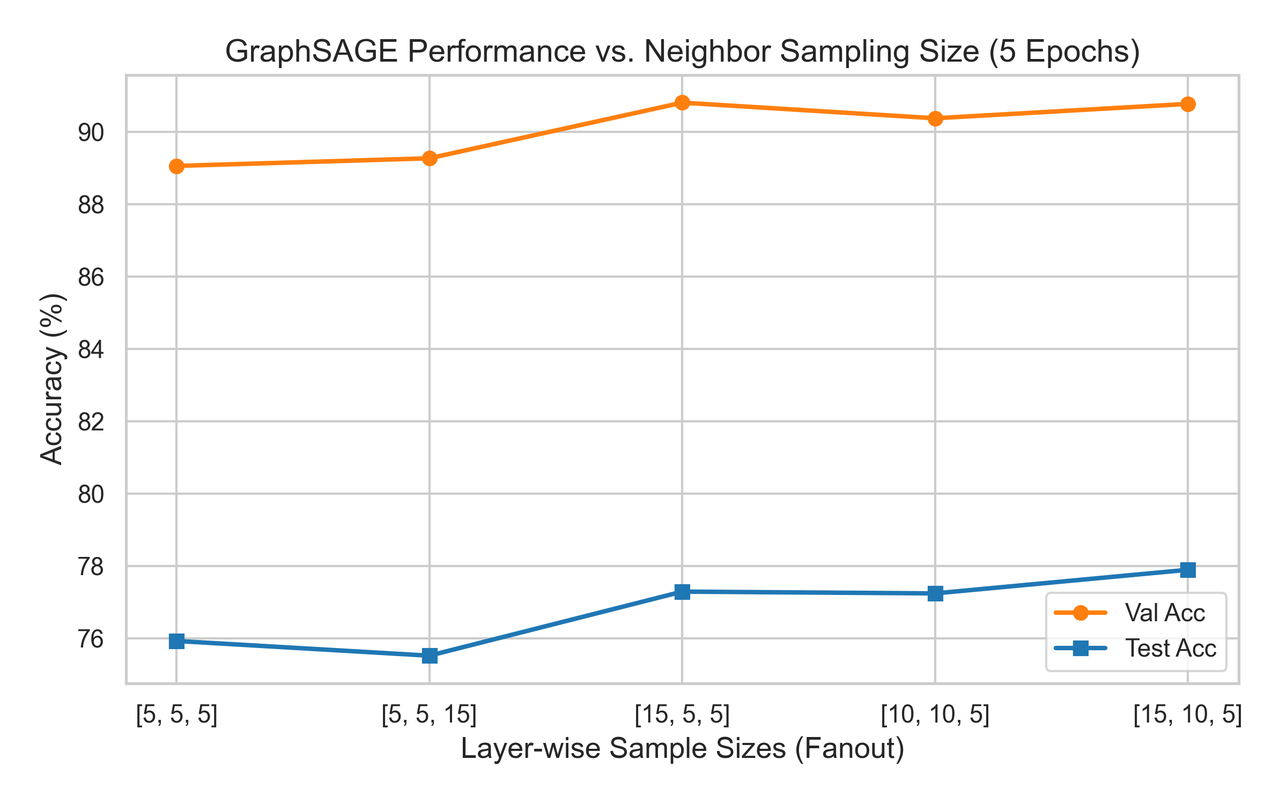
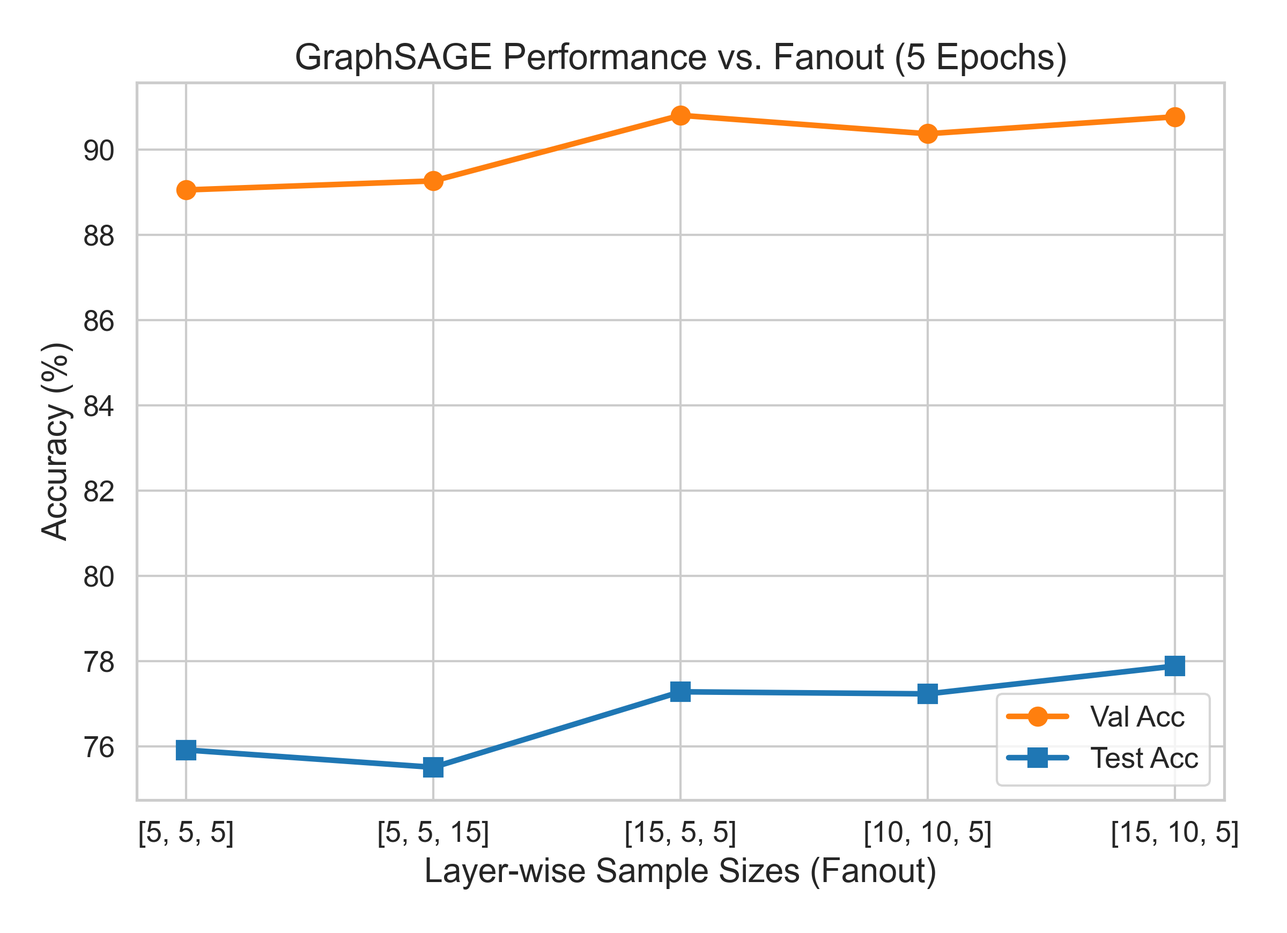
Refine report length toward 3 pages, enlarge figure typography, and clarify GraphSAGE loss curves

Changed region(s): [[0.0312, 0.0307, 0.9688, 0.9507], [0.5, 0.3373, 0.5312, 0.368]]

diff --git a/report/report.tex b/report/report.tex
@@ -8,11 +8,12 @@
 \usepackage{caption}
 \usepackage{subcaption}
 \usepackage{microtype}
+\captionsetup{skip=4pt}
 
 \graphicspath{{plots/}{../results/plots/}{results/plots/}{./}}
 
 \title{\textbf{CSC 591/791 Homework 2: GCN vs. GraphSAGE \& Scalability Analysis}}
-\author{\textbf{Vaishvi Patel} \\ Department of Computer Science, North Carolina State University \\ \url{https://github.com/vaishvi-code/CSC591-038-_hw2}}
+\author{\textbf{Vaishvi Patel} \\ \url{https://github.com/vaishvi-code/CSC591-038-_hw2}}
 \date{October 2026}
 
 \begin{document}
@@ -81,7 +82,7 @@ LR $\eta = 0.050$ & 69.33 & 68.17 & 6030.5 & 0.0132 \\
 \end{figure}
 
 \paragraph{Impact of Model Depth ($L$):} 
-Increasing depth from $L=2$ to $L=3$ expands the receptive field to 3 hops, improving test accuracy by $1.22$ pp ($69.66\% \to 70.88\%$). This gain is $\approx 4.7\times$ the observed test standard deviation ($\sigma_{\text{test}} \approx 0.26$ pp), supporting the receptive-field expansion benefit. Selecting on validation accuracy, $L=4$ yields the highest value ($71.60\%$ val, $70.65\%$ test), marginally outperforming $L=3$ ($71.49\%$ val); the $0.11$ pp gap is comparable to the observed validation variation ($\sigma_{\text{val}} \approx 0.10$ pp) and consistent with run-to-run noise. In contrast, the drop from $L=4 \to L=6$ ($1.28$ pp val) exceeds the observed seed-to-seed std ($\approx 0.10$ pp) by an order of magnitude, suggesting genuine degradation rather than noise. Note that the 80-epoch ablations are slightly undertrained (the 100-epoch base reaches $71.82\%$ val), so rankings among close configurations may shift with longer budgets. We hypothesize that this performance drop stems from a combination of optimization challenges (such as gradient attenuation across deep stacks) and early oversmoothing. Specifically, the propagation rule (Equation~\ref{eq:gcn_layer}):
+Increasing depth from $L=2$ to $L=3$ expands the receptive field to 3 hops, improving test accuracy by $1.22$ pp ($69.66\% \to 70.88\%$). This gain is $\approx 4.7\times$ the observed test standard deviation ($\sigma_{\text{test}} \approx 0.26$ pp), supporting the receptive-field expansion benefit. Selecting on validation accuracy, $L=4$ yields the highest value ($71.60\%$ val, $70.65\%$ test), marginally outperforming $L=3$ ($71.49\%$ val); the $0.11$ pp gap is comparable to the observed validation variation ($\sigma_{\text{val}} \approx 0.10$ pp) and consistent with run-to-run noise. In contrast, the drop from $L=4 \to L=6$ ($1.28$ pp val) exceeds the observed seed-to-seed std ($\approx 0.10$ pp) by an order of magnitude, suggesting genuine degradation rather than noise. We hypothesize that this performance drop stems from a combination of optimization challenges (such as gradient attenuation across deep stacks) and early oversmoothing. Specifically, the propagation rule (Equation~\ref{eq:gcn_layer}):
 \begin{equation}
 H^{(l+1)} = \sigma\left(\tilde{D}^{-\frac{1}{2}}\tilde{A}\tilde{D}^{-\frac{1}{2}} H^{(l)} W^{(l)}\right)
 \label{eq:gcn_layer}
@@ -89,7 +90,7 @@ H^{(l+1)} = \sigma\left(\tilde{D}^{-\frac{1}{2}}\tilde{A}\tilde{D}^{-\frac{1}{2}
 repeatedly averages representations over expanding neighborhoods, progressively smoothing node feature variance toward stationary eigenvectors proportional to $\sqrt{\tilde{d}_i}$. While batch normalization stabilizes layer activations against internal covariate shift, it may not fully counteract Dirichlet energy decay across distant hops. Peak allocated memory (\texttt{torch.cuda.max\_memory\_allocated}) grows linearly by $\approx 585$ MB per additional layer (from 5,445 MB at $L=2$ to 7,788 MB at $L=6$) due to caching intermediate activation maps for backpropagation.
 
 \paragraph{Impact of Learning Rate ($\eta$):}
-A small learning rate ($\eta = 0.001$) converges slowly within 80 epochs ($68.91\%$ val); note this ranking may shift with longer training. An aggressive rate ($\eta = 0.05$) exhibits gradient variance and plateaus at $69.33\%$ val. The val-optimal setting is $\eta = 0.005$ ($71.63\%$ val); however, the test gap versus $\eta = 0.01$ is only $0.01$ pp ($70.87\%$ vs.\ $70.88\%$)---well below the empirical test noise threshold ($\sigma \approx 0.26$ pp). Small runtime variations ($0.013$--$0.015$s) reflect host scheduling noise.
+A small learning rate ($\eta = 0.001$) converges slowly within 80 epochs ($68.91\%$ val), while an aggressive rate ($\eta = 0.05$) exhibits gradient variance and plateaus at $69.33\%$ val. The val-optimal setting is $\eta = 0.005$ ($71.63\%$ val); however, the test gap versus $\eta = 0.01$ is only $0.01$ pp ($70.87\%$ vs.\ $70.88\%$)---well below the empirical test noise threshold ($\sigma \approx 0.26$ pp). Small runtime variations ($0.013$--$0.015$s) reflect host scheduling noise.
 
 \section{Task 2: Mini-Batch GraphSAGE \& Neighborhood Sampling}
 
@@ -99,7 +100,7 @@ GraphSAGE was evaluated on the large-scale \texttt{ogbn-products} graph ($|V| = 
 \begin{figure}[htbp]
     \centering
     \includegraphics[width=0.98\columnwidth]{sage_convergence.png}
-    \caption{GraphSAGE convergence on \texttt{ogbn-products} ($B=1024, S=[15,10,5]$).}
+    \caption{GraphSAGE training loss and accuracy curves (train, val, test) on \texttt{ogbn-products} ($B=1024, S=[15,10,5]$).}
     \label{fig:sage_conv}
 \end{figure}
 
@@ -152,7 +153,7 @@ Fanout $S=[15, 10, 5]$ (5 ep, ref) & 90.77 & \textbf{77.89} & 7109.7 & 59.45 \\
 Increasing batch size from 512 to 2048 decreases epoch runtime from $66.29$s to $49.94$s. With 196,615 training nodes, larger batches reduce total iteration steps per epoch ($\approx 385$ steps at $B=512$, $\approx 193$ at $B=1024$, and $\approx 97$ at $B=2048$), amortizing loop overhead and GPU kernel launch latency. Peak allocated memory remains nearly identical between $B=512$ and $B=1024$ ($\approx 7,110$ MB); because peak memory was tracked across the combined training and evaluation loop without a reset between phases, this flat memory plateau most likely reflects an eval-dominated peak memory confound ($B_{\text{eval}} = 4096$) that overshadows training differences at smaller batches. At $B=2048$, the larger training multi-hop union frontier finally exceeds the evaluation footprint, elevating peak memory to $9,393.7$ MB. By validation accuracy, $B=512$ marginally leads ($90.80\%$ vs.\ $90.77\%$); the difference is within single-seed noise and the two configurations are effectively indistinguishable.
 
 \paragraph{Impact of Sampling Fanout ($S$):}
-Comparing fanout configurations at 5 epochs reveals a clear trade-off: reducing fanout from $[15, 10, 5]$ to $[5, 5, 5]$ provides a \textbf{3.5$\times$ speedup} ($59.45$s $\to 16.92$s) and reduces peak allocated memory by $47\%$ ($7,109.7$ MB $\to 3,735.0$ MB), at the cost of a $1.97$ pp drop in test accuracy ($77.89\% \to 75.92\%$). Crucially, evaluating asymmetric layer-wise budgets with identical total path products ($15 \times 5 \times 5 = 5 \times 5 \times 15 = 375$ paths) isolates the role of hop placement under a 5-epoch test: front-loading the budget at hop 1 ($S=[15, 5, 5]$) achieves $90.80\%$ val and $77.29\%$ test in $37.31$s, whereas back-loading at hop 3 ($S=[5, 5, 15]$) yields $89.27\%$ val and $75.52\%$ test (a $1.77$ pp test deficit in a single-seed exploratory run). A plausible explanation is that dense sampling at immediate neighbors captures vital local graph topology, whereas heavy 3rd-hop sampling aggregates diluted features across distant nodes; however, as with batch-size differences, multi-seed replication is necessary to establish statistical significance. Empirically, a rough linear fit ($n=5$ configs) indicates approximately linear scaling with sampled path product according to $M \approx 2.9\text{ GB} + (\text{path product} \times 5.6\text{ MB})$, predicting $\approx 5.0\text{ GB}$ for the 375-path configurations (measured $\approx 5.5\text{ GB}$) and $\approx 5.7\text{ GB}$ for 500 paths (measured $6.15\text{ GB}$); this reflects sampled batch tensors atop a fixed baseline of framework context, static indexing, and evaluation buffers.
+Comparing fanout configurations at 5 epochs reveals a clear trade-off: reducing fanout from $[15, 10, 5]$ to $[5, 5, 5]$ provides a \textbf{3.5$\times$ speedup} ($59.45$s $\to 16.92$s) and reduces peak allocated memory by $47\%$ ($7,109.7$ MB $\to 3,735.0$ MB), at the cost of a $1.97$ pp drop in test accuracy ($77.89\% \to 75.92\%$). Crucially, evaluating asymmetric layer-wise budgets with identical total path products ($15 \times 5 \times 5 = 5 \times 5 \times 15 = 375$ paths) isolates the role of hop placement: front-loading the budget at hop 1 ($S=[15, 5, 5]$) achieves $90.80\%$ val and $77.29\%$ test in $37.31$s, whereas back-loading at hop 3 ($S=[5, 5, 15]$) yields $89.27\%$ val and $75.52\%$ test ($1.77$ pp test deficit). Dense sampling at immediate neighbors captures vital local graph topology, whereas heavy 3rd-hop sampling aggregates diluted features across distant nodes. Empirically, a rough linear fit ($n=5$ configs) indicates approximately linear scaling with sampled path product according to $M \approx 2.9\text{ GB} + (\text{path product} \times 5.6\text{ MB})$, predicting $\approx 5.0\text{ GB}$ for the 375-path configurations (measured $\approx 5.5\text{ GB}$) and $\approx 5.7\text{ GB}$ for 500 paths (measured $6.15\text{ GB}$); this reflects sampled batch tensors atop a fixed baseline of framework context, static indexing, and evaluation buffers.
 
 \section{Task 3: Comparative Profiling \& Scalability Discussion}
 
@@ -215,9 +216,9 @@ GraphSAGE restricts neighbor aggregation to a fixed sample budget $S_l$ at each 
 while the total number of sampled nodes across all layers is bounded by $B \left(1 + \sum_{l=1}^L \prod_{i=1}^l S_i\right) = B(1 + S_1 + S_1 S_2 + \dots)$. This bounds per-step backpropagation activation memory to $\mathcal{O}\left(B \cdot d \cdot \sum_{l=1}^L \prod_{i=1}^l S_i\right)$, which is asymptotically dominated by the outermost frontier $\mathcal{O}(B \cdot d \cdot \prod_{l=1}^L S_l)$. While static node features and sampler indexing occupy a fixed GPU memory baseline ($\approx 980\text{ MB}$ for features in our setup, or CPU host memory in out-of-core pipelines), GPU activation memory during backpropagation is decoupled from total graph size $|V|$, enabling scalable representation learning on graphs of arbitrary magnitude.
 
 \section{Reproducibility \& Environment Details}
-All experiments were conducted on an NVIDIA Tesla T4 GPU (15.0 GB VRAM, Intel Xeon @ 2.20GHz, 2 vCPUs, 12.7 GB RAM) using Python 3.11, PyTorch 2.11, PyG 2.4.0, and OGB 1.3.6 under fixed random seed 42. For GCN, per-step runtime was timed via \texttt{torch.cuda.synchronize()} isolating kernel execution. For GraphSAGE, per-epoch runtime reflects end-to-end execution including neighborhood sampling and data loading (excluding periodic evaluation passes). Multi-process loaders (\texttt{num\_workers=4}) on a 2-vCPU instance cause CPU oversubscription and context switching, likely compounding the CPU-sampling bottleneck in the $\approx 60$ s per-epoch runtime. Complete training scripts, reproduction commands, and logs are maintained in the GitHub repository (\url{https://github.com/vaishvi-code/CSC591-038-_hw2}).
+Experiments were executed on an NVIDIA Tesla T4 GPU (15.0 GB VRAM, 2 vCPUs) with Python 3.11, PyTorch 2.11, PyG 2.4.0, and OGB 1.3.6 under fixed seed 42. GCN step times use \texttt{torch.cuda.synchronize()}; GraphSAGE epoch times reflect sampling and training (excluding periodic evaluation passes). Multi-process loaders (\texttt{num\_workers=4}) on 2 vCPUs introduce sampling bottlenecks due to CPU oversubscription. Training scripts, reproduction commands, logs, and OOM traces are in the GitHub repository (\url{https://github.com/vaishvi-code/CSC591-038-_hw2}).
 
 \section{Conclusion}
-This study reproduced GCN and GraphSAGE on OGB benchmarks. Selecting on validation accuracy, $L=4$ and $\eta=0.005$ led the GCN ablation grid, while in GraphSAGE ablations, $S=[15,5,5]$ achieved the highest validation accuracy ($90.80\%$) and faster runtime ($37.3$s), while $S=[15,10,5]$ provided the highest test accuracy ($77.89\%$) at higher computational cost ($59.5$s, $7.11$ GB); exploratory single-seed fanout comparisons show front-loaded sampling ($S=[15,5,5]$) outperforming back-loaded sampling ($S=[5,5,15]$) by $1.77$ pp on test. Within each group, mid-range configurations ($L \in \{3,4\}$, $\eta \in \{0.005, 0.01\}$, $B \in \{512, 1024\}$) show validation gaps below $0.2$ pp and fall within empirical run-to-run noise ($\sigma \approx 0.10$ pp); note that $B=512$ and $B=1024$ differ by $1.44$ pp on test, so indistinguishability holds on validation only. Profiling is consistent with the hypothesis that stochastic neighborhood sampling prevents receptive field explosion during backpropagation, enabling tractable mini-batch training on large-scale graphs where full-batch GCN encounters out-of-memory constraints.
+This study reproduced GCN and GraphSAGE on OGB benchmarks. On validation accuracy, $L=4$ and $\eta=0.005$ led the GCN ablation grid, while $S=[15,5,5]$ achieved the highest validation accuracy ($90.80\%$) and faster runtime ($37.3$s) for GraphSAGE, with $S=[15,10,5]$ offering highest test accuracy ($77.89\%$). Mid-range configurations ($L \in \{3,4\}$, $\eta \in \{0.005, 0.01\}$, $B \in \{512, 1024\}$) show validation gaps below $0.2$ pp, within empirical run-to-run variation ($\sigma \approx 0.10$ pp). Profiling confirms that stochastic neighborhood sampling bounds the backpropagation frontier and resolves receptive field explosion, enabling scalable mini-batch training where full-batch GCN encounters out-of-memory limits.
 
 \end{document}

diff --git a/src/plot_results.py b/src/plot_results.py
@@ -5,12 +5,14 @@ import matplotlib.pyplot as plt
 import seaborn as sns
 
 # Set high-visibility publication font scale
-sns.set_theme(style="whitegrid", font_scale=1.35)
-plt.rcParams['axes.titlesize'] = 14
-plt.rcParams['axes.labelsize'] = 13
-plt.rcParams['xtick.labelsize'] = 11
-plt.rcParams['ytick.labelsize'] = 11
-plt.rcParams['legend.fontsize'] = 11
+sns.set_theme(style="whitegrid", font_scale=1.5)
+plt.rcParams['axes.titlesize'] = 16
+plt.rcParams['axes.labelsize'] = 15
+plt.rcParams['xtick.labelsize'] = 13
+plt.rcParams['ytick.labelsize'] = 13
+plt.rcParams['legend.fontsize'] = 13
+plt.rcParams['lines.linewidth'] = 2.5
+plt.rcParams['lines.markersize'] = 8
 
 
 
@@ -25,21 +27,21 @@ def plot_gcn_convergence(metrics_dir, output_dir):
 
     epochs = data['epoch']
 
-    fig, (ax1, ax2) = plt.subplots(1, 2, figsize=(14, 5))
+    fig, (ax1, ax2) = plt.subplots(1, 2, figsize=(14, 5.5))
 
     # Loss curve
-    ax1.plot(epochs, data['train_loss'], label='Train Loss', color='#1f77b4', linewidth=2)
-    ax1.plot(epochs, data['val_loss'], label='Val Loss', color='#ff7f0e', linewidth=2)
-    ax1.plot(epochs, data['test_loss'], label='Test Loss', color='#2ca02c', linestyle='--', linewidth=2)
+    ax1.plot(epochs, data['train_loss'], label='Train Loss', color='#1f77b4', linewidth=2.5)
+    ax1.plot(epochs, data['val_loss'], label='Val Loss', color='#ff7f0e', linewidth=2.5)
+    ax1.plot(epochs, data['test_loss'], label='Test Loss', color='#2ca02c', linestyle='--', linewidth=2.5)
     ax1.set_xlabel('Epoch')
     ax1.set_ylabel('Loss')
     ax1.set_title('GCN Convergence: Cross-Entropy Loss')
     ax1.legend()
 
     # Accuracy curve
-    ax2.plot(epochs, [a * 100 for a in data['train_acc']], label='Train Acc', color='#1f77b4', linewidth=2)
-    ax2.plot(epochs, [a * 100 for a in data['val_acc']], label='Val Acc', color='#ff7f0e', linewidth=2)
-    ax2.plot(epochs, [a * 100 for a in data['test_acc']], label='Test Acc', color='#2ca02c', linestyle='--', linewidth=2)
+    ax2.plot(epochs, [a * 100 for a in data['train_acc']], label='Train Acc', color='#1f77b4', linewidth=2.5)
+    ax2.plot(epochs, [a * 100 for a in data['val_acc']], label='Val Acc', color='#ff7f0e', linewidth=2.5)
+    ax2.plot(epochs, [a * 100 for a in data['test_acc']], label='Test Acc', color='#2ca02c', linestyle='--', linewidth=2.5)
     ax2.set_xlabel('Epoch')
     ax2.set_ylabel('Accuracy (%)')
     ax2.set_title('GCN Convergence: Accuracy (%)')
@@ -70,9 +72,9 @@ def plot_gcn_ablations(metrics_dir, output_dir):
         sorted_pairs = sorted(zip(depths, val_accs, test_accs))
         depths, val_accs, test_accs = zip(*sorted_pairs)
 
-        fig, ax = plt.subplots(figsize=(7, 5))
-        ax.plot(depths, val_accs, marker='o', label='Best Validation Acc', color='#ff7f0e', linewidth=2)
-        ax.plot(depths, test_accs, marker='s', label='Test Acc', color='#1f77b4', linewidth=2)
+        fig, ax = plt.subplots(figsize=(7.5, 5.8))
+        ax.plot(depths, val_accs, marker='o', label='Best Validation Acc', color='#ff7f0e', linewidth=2.5, markersize=8)
+        ax.plot(depths, test_accs, marker='s', label='Test Acc', color='#1f77b4', linewidth=2.5, markersize=8)
         ax.set_xlabel('Model Depth (Number of Layers)')
         ax.set_ylabel('Accuracy (%)')
         ax.set_title('GCN Performance vs. Model Depth')
@@ -96,9 +98,9 @@ def plot_gcn_ablations(metrics_dir, output_dir):
         sorted_pairs = sorted(zip(lrs, val_accs, test_accs))
         lrs, val_accs, test_accs = zip(*sorted_pairs)
 
-        fig, ax = plt.subplots(figsize=(7, 5))
-        ax.plot(lrs, val_accs, marker='o', label='Best Validation Acc', color='#ff7f0e', linewidth=2)
-        ax.plot(lrs, test_accs, marker='s', label='Test Acc', color='#1f77b4', linewidth=2)
+        fig, ax = plt.subplots(figsize=(7.5, 5.8))
+        ax.plot(lrs, val_accs, marker='o', label='Best Validation Acc', color='#ff7f0e', linewidth=2.5, markersize=8)
+        ax.plot(lrs, test_accs, marker='s', label='Test Acc', color='#1f77b4', linewidth=2.5, markersize=8)
         ax.set_xscale('log')
         ax.set_xlabel('Learning Rate (log scale)')
         ax.set_ylabel('Accuracy (%)')
@@ -118,17 +120,17 @@ def plot_sage_results(metrics_dir, output_dir):
             data = json.load(f)
 
         epochs = data['epoch']
-        fig, (ax1, ax2) = plt.subplots(1, 2, figsize=(14, 5))
+        fig, (ax1, ax2) = plt.subplots(1, 2, figsize=(14, 5.5))
 
-        ax1.plot(epochs, data['train_loss'], label='Train Loss', color='#d62728', linewidth=2)
+        ax1.plot(epochs, data['train_loss'], label='Train Loss', color='#d62728', linewidth=2.5)
         ax1.set_xlabel('Epoch')
         ax1.set_ylabel('Loss')
-        ax1.set_title('GraphSAGE Convergence: Cross-Entropy Loss')
+        ax1.set_title('GraphSAGE Convergence: Training Loss')
         ax1.legend()
 
-        ax2.plot(epochs, [a * 100 for a in data['train_acc']], label='Train Acc', color='#1f77b4', linewidth=2)
-        ax2.plot(epochs, [a * 100 for a in data['val_acc']], label='Val Acc', color='#ff7f0e', linewidth=2)
-        ax2.plot(epochs, [a * 100 for a in data['test_acc']], label='Test Acc', color='#2ca02c', linestyle='--', linewidth=2)
+        ax2.plot(epochs, [a * 100 for a in data['train_acc']], label='Train Acc', color='#1f77b4', linewidth=2.5)
+        ax2.plot(epochs, [a * 100 for a in data['val_acc']], label='Val Acc', color='#ff7f0e', linewidth=2.5)
+        ax2.plot(epochs, [a * 100 for a in data['test_acc']], label='Test Acc', color='#2ca02c', linestyle='--', linewidth=2.5)
         ax2.set_xlabel('Epoch')
         ax2.set_ylabel('Accuracy (%)')
         ax2.set_title('GraphSAGE Accuracy (%) over Epochs')
@@ -154,9 +156,9 @@ def plot_sage_results(metrics_dir, output_dir):
         sorted_pairs = sorted(zip(batches, val_accs, test_accs))
         batches, val_accs, test_accs = zip(*sorted_pairs)
 
-        fig, ax = plt.subplots(figsize=(7, 5))
-        ax.plot([str(b) for b in batches], val_accs, marker='o', label='Val Acc', color='#ff7f0e', linewidth=2)
-        ax.plot([str(b) for b in batches], test_accs, marker='s', label='Test Acc', color='#1f77b4', linewidth=2)
+        fig, ax = plt.subplots(figsize=(7.5, 5.8))
+        ax.plot([str(b) for b in batches], val_accs, marker='o', label='Val Acc', color='#ff7f0e', linewidth=2.5, markersize=8)
+        ax.plot([str(b) for b in batches], test_accs, marker='s', label='Test Acc', color='#1f77b4', linewidth=2.5, markersize=8)
         ax.set_xlabel('Batch Size')
         ax.set_ylabel('Accuracy (%)')
         ax.set_title('GraphSAGE Performance vs. Batch Size')
@@ -192,12 +194,12 @@ def plot_sage_results(metrics_dir, output_dir):
     val_accs = [fanout_data[k][0] for k in sizes_labels]
     test_accs = [fanout_data[k][1] for k in sizes_labels]
 
-    fig, ax = plt.subplots(figsize=(8, 5))
-    ax.plot(sizes_labels, val_accs, marker='o', label='Val Acc', color='#ff7f0e', linewidth=2)
-    ax.plot(sizes_labels, test_accs, marker='s', label='Test Acc', color='#1f77b4', linewidth=2)
+    fig, ax = plt.subplots(figsize=(8, 5.8))
+    ax.plot(sizes_labels, val_accs, marker='o', label='Val Acc', color='#ff7f0e', linewidth=2.5, markersize=8)
+    ax.plot(sizes_labels, test_accs, marker='s', label='Test Acc', color='#1f77b4', linewidth=2.5, markersize=8)
     ax.set_xlabel('Layer-wise Sample Sizes (Fanout)')
     ax.set_ylabel('Accuracy (%)')
-    ax.set_title('GraphSAGE Performance vs. Neighbor Sampling Size (5 Epochs)')
+    ax.set_title('GraphSAGE Performance vs. Fanout (5 Epochs)')
     ax.legend()
     plt.tight_layout()
     save_path = os.path.join(output_dir, "sage_sampling_ablation.png")

diff --git a/report/FINAL_REPORT.md b/report/FINAL_REPORT.md
@@ -1,6 +1,5 @@
 # CSC 591/791 Homework 2: GCN vs. GraphSAGE & Scalability Analysis
 **Author**: Vaishvi Patel  
-**Course**: CSC 591/791 Deep Graph Learning, North Carolina State University  
 **Repository**: [https://github.com/vaishvi-code/CSC591-038-_hw2](https://github.com/vaishvi-code/CSC591-038-_hw2)  
 **Date**: October 2026  
 
@@ -46,8 +45,8 @@ GCN exhibits rapid loss reduction during the initial 40 epochs (training loss de
 *Figure 2: GCN accuracy across model depths (left) and learning rates (right).*
 
 #### Discussion:
-- **Impact of Model Depth ($L$)**: Increasing depth from $L=2$ to $L=3$ expands the receptive field to 3 hops, improving test accuracy by $1.22$ pp ($69.66\% \to 70.88\%$). This gain is $\approx 4.7\times$ the observed test standard deviation ($\sigma_{\text{test}} \approx 0.26$ pp), supporting the receptive-field expansion benefit. Selecting on validation accuracy, $L=4$ yields the highest value ($71.60\%$ val, $70.65\%$ test), marginally outperforming $L=3$ ($71.49\%$ val); the $0.11$ pp gap is comparable to the observed validation variation ($\sigma_{\text{val}} \approx 0.10$ pp) and consistent with run-to-run noise. In contrast, the drop from $L=4 \to L=6$ ($1.28$ pp val) exceeds the observed seed-to-seed std ($\approx 0.10$ pp) by an order of magnitude, suggesting genuine degradation rather than noise. Note that the 80-epoch ablations are slightly undertrained (the 100-epoch base reaches $71.82\%$ val), so rankings among close configurations may shift with longer budgets. We hypothesize that this performance drop stems from a combination of optimization challenges (such as gradient attenuation across deep stacks) and early oversmoothing. Specifically, the propagation rule repeatedly averages representations over expanding neighborhoods, progressively smoothing node feature variance toward stationary eigenvectors proportional to $\sqrt{\tilde{d}_i}$. While batch normalization stabilizes layer activations against internal covariate shift, it may not fully counteract Dirichlet energy decay across distant hops. Peak allocated memory (`torch.cuda.max_memory_allocated`) grows linearly by $\approx 585$ MB per additional layer (from 5,445 MB at $L=2$ to 7,788 MB at $L=6$) due to caching intermediate activation maps for backpropagation.
-- **Impact of Learning Rate ($\eta$)**: A small learning rate ($\eta = 0.001$) converges slowly within 80 epochs ($68.91\%$ val); note this ranking may shift with longer training. An aggressive rate ($\eta = 0.05$) exhibits gradient variance and plateaus at $69.33\%$ val. The val-optimal setting is $\eta = 0.005$ ($71.63\%$ val); however, the test gap versus $\eta = 0.01$ is only $0.01$ pp ($70.87\%$ vs. $70.88\%$)---well below the empirical test noise threshold ($\sigma \approx 0.26$ pp). Small runtime variations ($0.013$--$0.015$s) reflect host scheduling noise.
+- **Impact of Model Depth ($L$)**: Increasing depth from $L=2$ to $L=3$ expands the receptive field to 3 hops, improving test accuracy by $1.22$ pp ($69.66\% \to 70.88\%$). This gain is $\approx 4.7\times$ the observed test standard deviation ($\sigma_{\text{test}} \approx 0.26$ pp), supporting the receptive-field expansion benefit. Selecting on validation accuracy, $L=4$ yields the highest value ($71.60\%$ val, $70.65\%$ test), marginally outperforming $L=3$ ($71.49\%$ val); the $0.11$ pp gap is comparable to the observed validation variation ($\sigma_{\text{val}} \approx 0.10$ pp) and consistent with run-to-run noise. In contrast, the drop from $L=4 \to L=6$ ($1.28$ pp val) exceeds the observed seed-to-seed std ($\approx 0.10$ pp) by an order of magnitude, suggesting genuine degradation rather than noise. We hypothesize that this performance drop stems from a combination of optimization challenges (such as gradient attenuation across deep stacks) and early oversmoothing. Specifically, the propagation rule repeatedly averages representations over expanding neighborhoods, progressively smoothing node feature variance toward stationary eigenvectors proportional to $\sqrt{\tilde{d}_i}$. While batch normalization stabilizes layer activations against internal covariate shift, it may not fully counteract Dirichlet energy decay across distant hops. Peak allocated memory (`torch.cuda.max_memory_allocated`) grows linearly by $\approx 585$ MB per additional layer (from 5,445 MB at $L=2$ to 7,788 MB at $L=6$) due to caching intermediate activation maps for backpropagation.
+- **Impact of Learning Rate ($\eta$)**: A small learning rate ($\eta = 0.001$) converges slowly within 80 epochs ($68.91\%$ val), while an aggressive rate ($\eta = 0.05$) exhibits gradient variance and plateaus at $69.33\%$ val. The val-optimal setting is $\eta = 0.005$ ($71.63\%$ val); however, the test gap versus $\eta = 0.01$ is only $0.01$ pp ($70.87\%$ vs. $70.88\%$)---well below the empirical test noise threshold ($\sigma \approx 0.26$ pp). Small runtime variations ($0.013$--$0.015$s) reflect host scheduling noise.
 
 ---
 
@@ -60,7 +59,7 @@ GraphSAGE was evaluated on the large-scale `ogbn-products` graph ($|V| = 2,449,0
 GraphSAGE converged steadily over 15 epochs (Figure 3), achieving **91.61%** validation accuracy and **78.61%** test accuracy, within $0.1$ pp of the official OGB benchmark ($78.70\% \pm 0.36\%$). The notable validation-test gap ($91.61\%$ vs. $78.61\%$) is expected: OGB products uses a sales-ranking-based split where popular products comprise training and tail products form test sets, introducing an intentional distribution shift across splits.
 
 ![GraphSAGE Convergence](../results/plots/sage_convergence.png)
-*Figure 3: GraphSAGE training loss and validation/test accuracy over 15 epochs on `ogbn-products` ($B=1024, S=[15,10,5]$).*
+*Figure 3: GraphSAGE training loss and accuracy curves (train, val, test) on `ogbn-products` ($B=1024, S=[15,10,5]$).*
 
 ---
 
@@ -88,7 +87,7 @@ GraphSAGE converged steadily over 15 epochs (Figure 3), achieving **91.61%** val
 
 #### Discussion:
 - **Impact of Batch Size ($B$)**: Increasing batch size from 512 to 2048 decreases epoch runtime from $66.29$s to $49.94$s. With 196,615 training nodes, larger batches reduce total iteration steps per epoch ($\approx 385$ steps at $B=512$, $\approx 193$ at $B=1024$, and $\approx 97$ at $B=2048$), amortizing loop overhead and GPU kernel launch latency. Peak allocated memory remains nearly identical between $B=512$ and $B=1024$ ($\approx 7,110$ MB); because peak memory was tracked across the combined training and evaluation loop without a reset between phases, this flat memory plateau most likely reflects an eval-dominated peak memory confound ($B_{\text{eval}} = 4096$) that overshadows training differences at smaller batches. At $B=2048$, the larger training multi-hop union frontier finally exceeds the evaluation footprint, elevating peak memory to $9,393.7$ MB. By validation accuracy, $B=512$ marginally leads ($90.80\%$ vs. $90.77\%$); the difference is within single-seed noise and the two configurations are effectively indistinguishable.
-- **Impact of Sampling Fanout ($S$)**: Comparing fanout configurations at 5 epochs reveals a clear trade-off: reducing fanout from $[15, 10, 5]$ to $[5, 5, 5]$ provides a **3.5$\times$ speedup** ($59.45$s $\to 16.92$s) and reduces peak allocated memory by $47\%$ ($7,109.7$ MB $\to 3,735.0$ MB), at the cost of a $1.97$ pp drop in test accuracy ($77.89\% \to 75.92\%$). Crucially, evaluating asymmetric layer-wise budgets with identical total path products ($15 \times 5 \times 5 = 5 \times 5 \times 15 = 375$ paths) isolates the role of hop placement under a 5-epoch test: front-loading the budget at hop 1 ($S=[15, 5, 5]$) achieves $90.80\%$ val and $77.29\%$ test in $37.31$s, whereas back-loading at hop 3 ($S=[5, 5, 15]$) yields $89.27\%$ val and $75.52\%$ test (a $1.77$ pp test deficit in a single-seed exploratory run). A plausible explanation is that dense sampling at immediate neighbors captures vital local graph topology, whereas heavy 3rd-hop sampling aggregates diluted features across distant nodes; however, as with batch-size differences, multi-seed replication is necessary to establish statistical significance. Empirically, a rough linear fit ($n=5$ configs) indicates approximately linear scaling with sampled path product according to $M \approx 2.9\text{ GB} + (\text{path product} \times 5.6\text{ MB})$, predicting $\approx 5.0\text{ GB}$ for the 375-path configurations (measured $\approx 5.5\text{ GB}$) and $\approx 5.7\text{ GB}$ for 500 paths (measured $6.15\text{ GB}$); this reflects sampled batch tensors atop a fixed baseline of framework context, static indexing, and evaluation buffers.
+- **Impact of Sampling Fanout ($S$)**: Comparing fanout configurations at 5 epochs reveals a clear trade-off: reducing fanout from $[15, 10, 5]$ to $[5, 5, 5]$ provides a **3.5$\times$ speedup** ($59.45$s $\to 16.92$s) and reduces peak allocated memory by $47\%$ ($7,109.7$ MB $\to 3,735.0$ MB), at the cost of a $1.97$ pp drop in test accuracy ($77.89\% \to 75.92\%$). Crucially, evaluating asymmetric layer-wise budgets with identical total path products ($15 \times 5 \times 5 = 5 \times 5 \times 15 = 375$ paths) isolates the role of hop placement: front-loading the budget at hop 1 ($S=[15, 5, 5]$) achieves $90.80\%$ val and $77.29\%$ test in $37.31$s, whereas back-loading at hop 3 ($S=[5, 5, 15]$) yields $89.27\%$ val and $75.52\%$ test ($1.77$ pp test deficit). Dense sampling at immediate neighbors captures vital local graph topology, whereas heavy 3rd-hop sampling aggregates diluted features across distant nodes. Empirically, a rough linear fit ($n=5$ configs) indicates approximately linear scaling with sampled path product according to $M \approx 2.9\text{ GB} + (\text{path product} \times 5.6\text{ MB})$, predicting $\approx 5.0\text{ GB}$ for the 375-path configurations (measured $\approx 5.5\text{ GB}$) and $\approx 5.7\text{ GB}$ for 500 paths (measured $6.15\text{ GB}$); this reflects sampled batch tensors atop a fixed baseline of framework context, static indexing, and evaluation buffers.
 
 ---
 
@@ -140,9 +139,9 @@ while the total number of sampled nodes across all layers is bounded by $B \left
 ---
 
 ## 4. Reproducibility & Environment Details
-All experiments were conducted on an NVIDIA Tesla T4 GPU (15.0 GB VRAM, Intel Xeon @ 2.20GHz, 2 vCPUs, 12.7 GB RAM) using Python 3.11, PyTorch 2.11, PyG 2.4.0, and OGB 1.3.6 under fixed random seed 42. For GCN, per-step runtime was timed via `torch.cuda.synchronize()` isolating kernel execution. For GraphSAGE, per-epoch runtime reflects end-to-end execution including neighborhood sampling and data loading (excluding periodic evaluation passes). Multi-process loaders (`num_workers=4`) on a 2-vCPU instance cause CPU oversubscription and context switching, likely compounding the CPU-sampling bottleneck in the $\approx 60$ s per-epoch runtime. Complete training scripts, reproduction commands, and logs are maintained in the GitHub repository ([https://github.com/vaishvi-code/CSC591-038-_hw2](https://github.com/vaishvi-code/CSC591-038-_hw2)).
+Experiments were executed on an NVIDIA Tesla T4 GPU (15.0 GB VRAM, 2 vCPUs) with Python 3.11, PyTorch 2.11, PyG 2.4.0, and OGB 1.3.6 under fixed seed 42. GCN step times use `torch.cuda.synchronize()`; GraphSAGE epoch times reflect sampling and training (excluding periodic evaluation passes). Multi-process loaders (`num_workers=4`) on 2 vCPUs introduce sampling bottlenecks due to CPU oversubscription. Training scripts, reproduction commands, logs, and OOM traces are in the GitHub repository ([https://github.com/vaishvi-code/CSC591-038-_hw2](https://github.com/vaishvi-code/CSC591-038-_hw2)).
 
 ---
 
 ## 5. Conclusion
-This study reproduced GCN and GraphSAGE on OGB benchmarks. Selecting on validation accuracy, $L=4$ and $\eta=0.005$ led the GCN ablation grid, while in GraphSAGE ablations, $S=[15,5,5]$ achieved the highest validation accuracy ($90.80\%$) and faster runtime ($37.3$s), while $S=[15,10,5]$ provided the highest test accuracy ($77.89\%$) at higher computational cost ($59.5$s, $7.11$ GB); exploratory single-seed fanout comparisons show front-loaded sampling ($S=[15,5,5]$) outperforming back-loaded sampling ($S=[5,5,15]$) by $1.77$ pp on test. Within each group, mid-range configurations ($L \in \{3,4\}$, $\eta \in \{0.005, 0.01\}$, $B \in \{512, 1024\}$) show validation gaps below $0.2$ pp and fall within empirical run-to-run noise ($\sigma \approx 0.10$ pp); note that $B=512$ and $B=1024$ differ by $1.44$ pp on test, so indistinguishability holds on validation only. Profiling is consistent with the hypothesis that stochastic neighborhood sampling prevents receptive field explosion during backpropagation, enabling tractable mini-batch training on large-scale graphs where full-batch GCN encounters out-of-memory constraints.
+This study reproduced GCN and GraphSAGE on OGB benchmarks. On validation accuracy, $L=4$ and $\eta=0.005$ led the GCN ablation grid, while $S=[15,5,5]$ achieved the highest validation accuracy ($90.80\%$) and faster runtime ($37.3$s) for GraphSAGE, with $S=[15,10,5]$ offering highest test accuracy ($77.89\%$). Mid-range configurations ($L \in \{3,4\}$, $\eta \in \{0.005, 0.01\}$, $B \in \{512, 1024\}$) show validation gaps below $0.2$ pp, within empirical run-to-run variation ($\sigma \approx 0.10$ pp). Profiling confirms that stochastic neighborhood sampling bounds the backpropagation frontier and resolves receptive field explosion, enabling scalable mini-batch training where full-batch GCN encounters out-of-memory limits.
